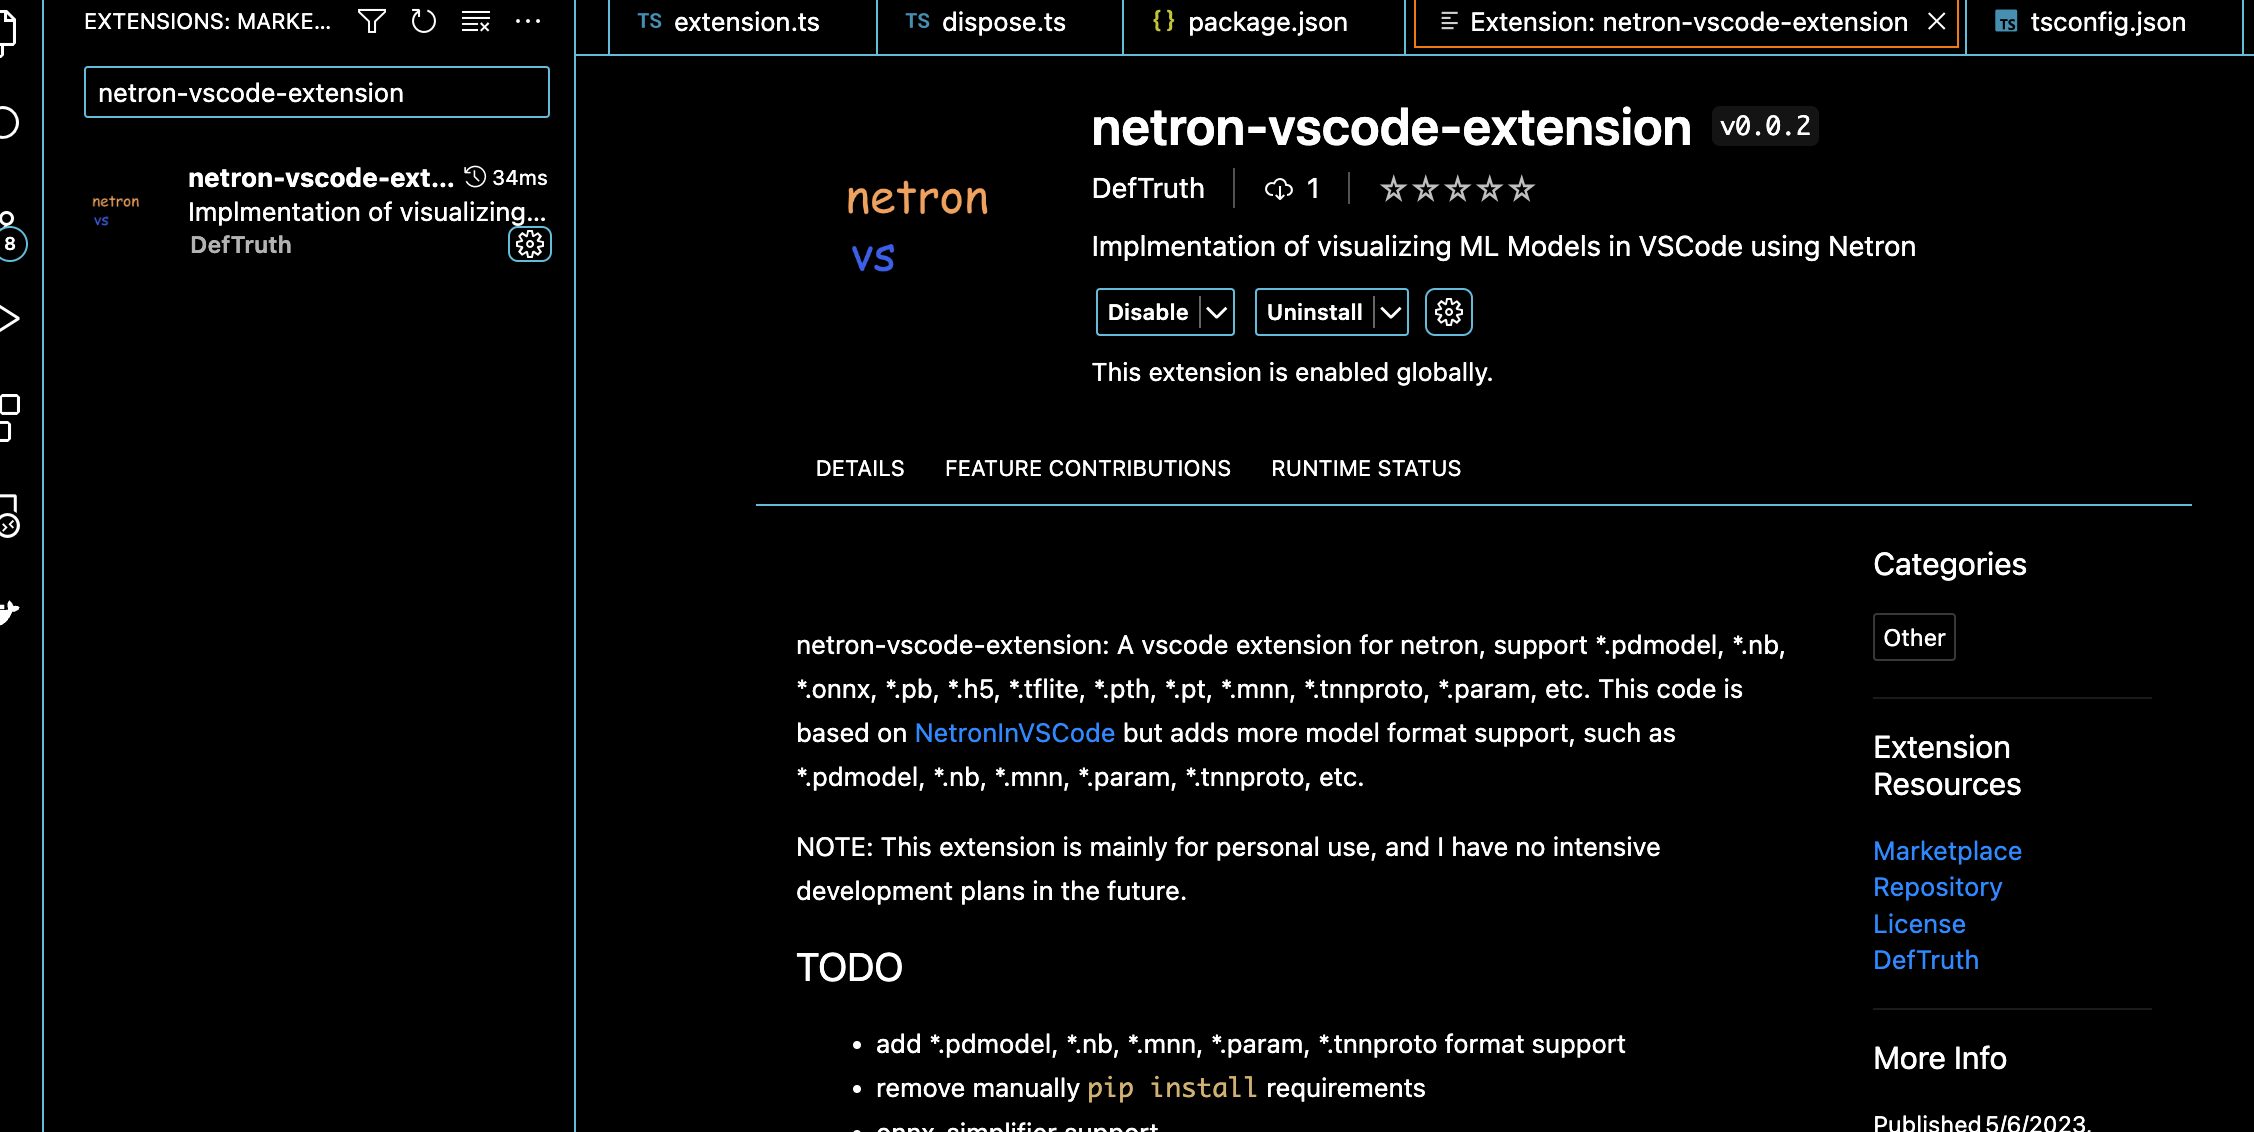
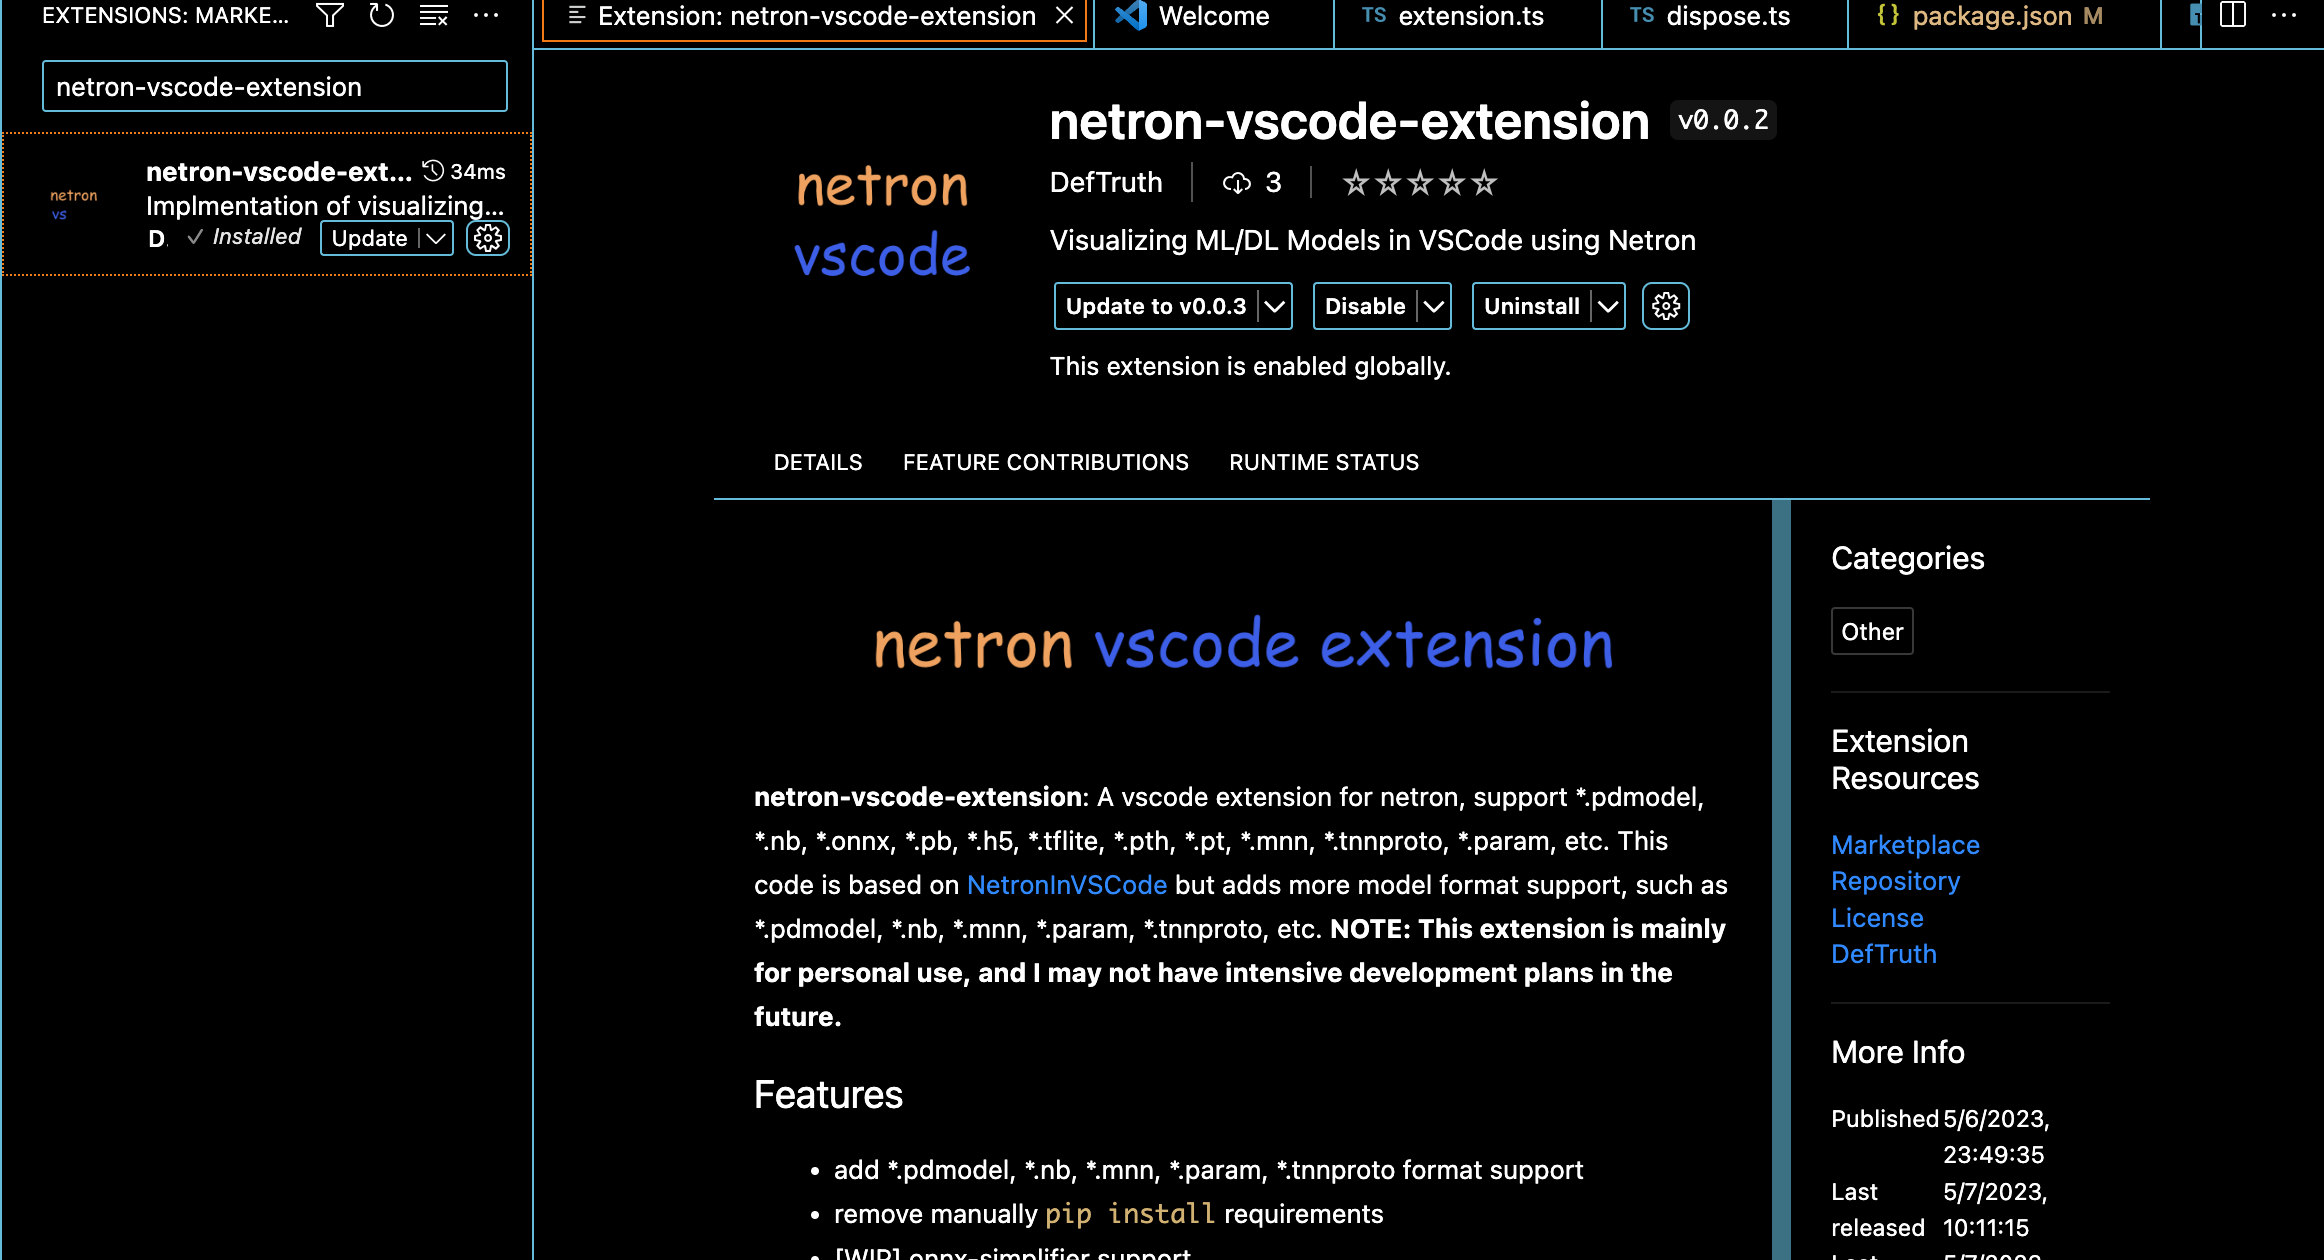
[Extension] publish version 0.0.3 -> vscode marketplace

diff --git a/README.md b/README.md
@@ -1,26 +1,30 @@
 ![](docs/logo-v3.png)
 
-netron-vscode-extension: A vscode extension for netron, support *.pdmodel, *.nb, *.onnx, *.pb, *.h5, *.tflite, *.pth, *.pt, *.mnn, *.tnnproto, *.param, etc. This code is based on [NetronInVSCode](https://github.com/chingweihsu0809/NetronInVSCode) but adds more model format support, such as *.pdmodel, *.nb, *.mnn, *.param, *.tnnproto, etc.  
+**netron-vscode-extension**: A vscode extension for netron, support *.pdmodel, *.nb, *.onnx, *.pb, *.h5, *.tflite, *.pth, *.pt, *.mnn, *.tnnproto, *.param, etc. This code is based on [NetronInVSCode](https://github.com/chingweihsu0809/NetronInVSCode) but adds more model format support, such as *.pdmodel, *.nb, *.mnn, *.param, *.tnnproto, etc. **NOTE: This extension is mainly for personal use, and I may not have intensive development plans in the future.**
 
-NOTE: This extension is mainly for personal use, and I have no intensive development plans in the future.
+## Features   
 
-
-## TODO 
 - [x] add *.pdmodel, *.nb, *.mnn, *.param, *.tnnproto format support
 - [x] remove manually `pip install` requirements
-- [ ] onnx-simplifier support
-- [ ] paddle2onnx converter support
-- [ ] x2paddle converter support
-- [ ] MNN converter support
-- [ ] Optimize some UI components
+- [ ] [WIP] onnx-simplifier support
+- [ ] [WIP] paddle2onnx converter support
+- [ ] [WIP] x2paddle converter support
+- [ ] [WIP] MNN converter support
+- [ ] [WIP] Optimize some UI components
 
 ## Install
-- Install `netron-vscode-extension` from VSCode marketplace. 
+
+- Install `netron-vscode-extension` from [vscode marketplace](https://marketplace.visualstudio.com/items?itemName=DefTruth.netron-vscode-extension). 
 ![](docs/install.png)
+
+- Install `Python 3.x` on your computer. The step about netron installation follows is optional. This extension will call netron from python via [node-python-bride](https://github.com/Submersible/node-python-bridge) to form an url which contains the visualized contents, then, pass it to this extension. `netron-vscode-extension` will check whether the netron is avaliable on your python and auto install it if necessary.
+	```bash
+	python -m pip install netron  # optional
+	```
 
 ## Usage
 
-- Click on a saved model to see the following.  
+- Click on a saved model to see the following, such as [picodet](models/picodet_l_320_coco_lcnet/model.pdmodel), [yolov8n](models/yolov8n.onnx), etc.
 ![](docs/example.gif) 
 ![](docs/picodet.png)
 
@@ -30,6 +34,10 @@ You can build the extension from sources:
 - Open this repo in VS Code
 - `npm install`
 - `F5` to start debugging
+
+## LICENSE  
+
+The codes is released under the MIT License.
 
 ## Reference
 
